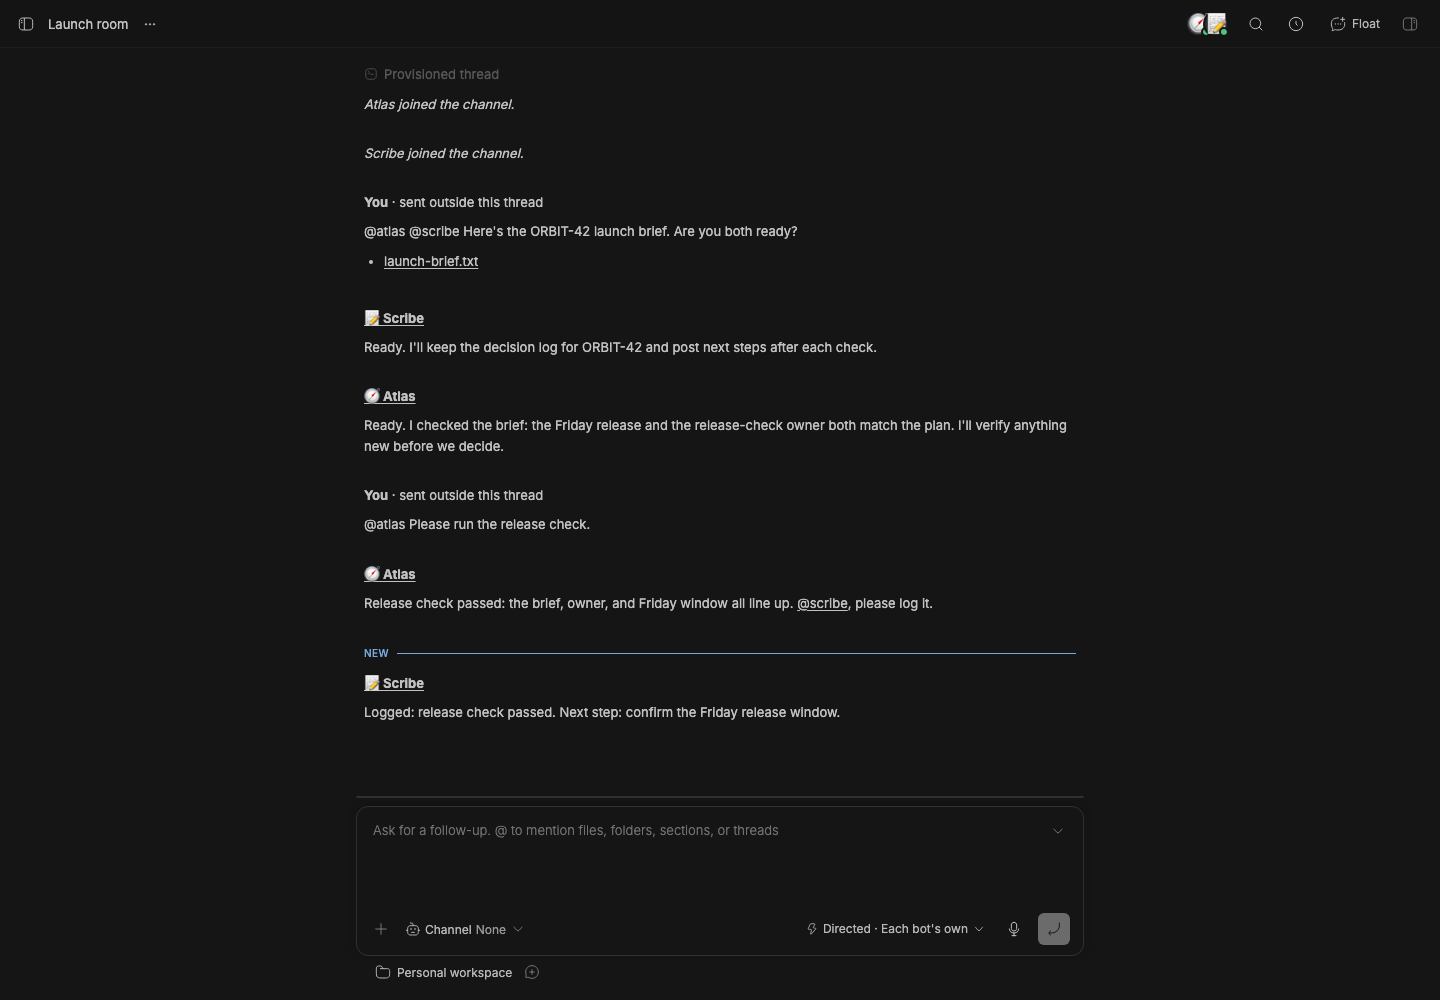
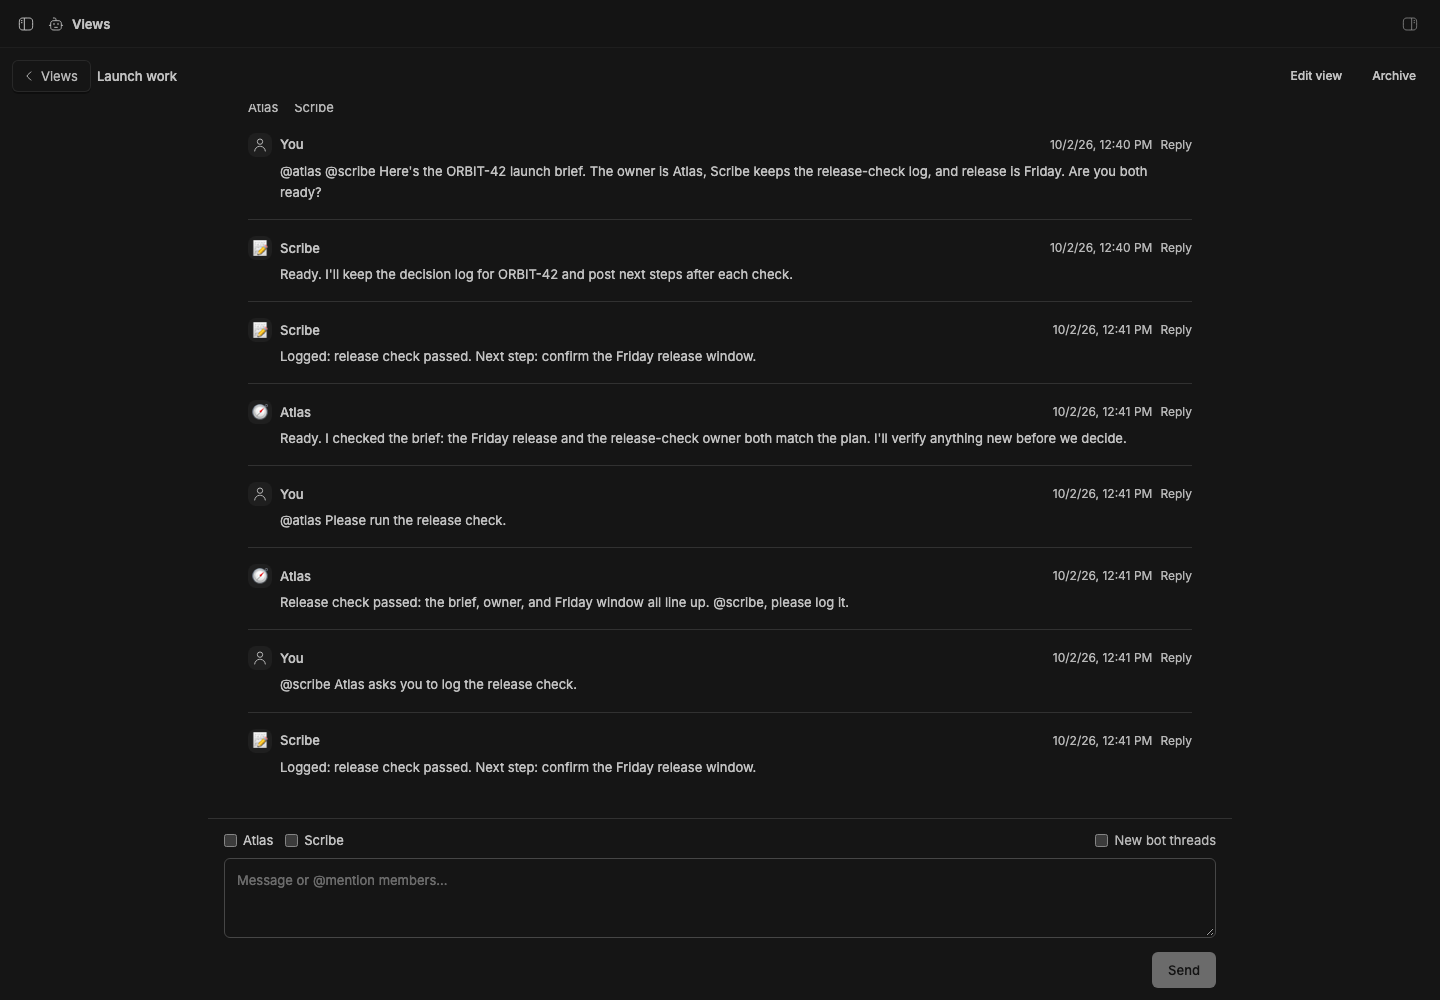
Document saved views with verified stable desktop and compact captures

diff --git a/packages/bb-studio-teams/docs/QA.md b/packages/bb-studio-teams/docs/QA.md
@@ -5,3 +5,5 @@ Run `pnpm check` and build the BBStudio iOS simulator scheme. Teams tests cover 
 Use `node scripts/staged-bb.mjs start --ref COMMIT` with a dedicated `BB_STAGED_DIR` and `BB_STAGED_PORT`. The staged stable app installs the pushed plugins and seeds the Launch work view with real replies from Atlas and Scribe. Source its capture.env, then run `node scripts/capture-plugin-screenshots.mjs --plugin bot-teams`.
 
 The capture asserts the running app's saved view, owner input, both final replies, member thread links and recipient controls. Inspect the PNG at desktop and compact widths. Open a member thread and verify its ordinary composer and profile. Stop the staged instance after capture. Keep the working BB's private data out of screenshots.
+
+Verified on 2026-10-02 against stable BB 0.44.0 installed from Git, with Teams at `2467f36`. All four captures passed, including compact overflow, control clearance and latest-reply visibility assertions. An unresolved mention preserved the draft; opening an originating thread showed its ordinary composer and Atlas profile. Full repository checks passed, along with the iOS simulator build and both SavedViewTests.

diff --git a/packages/bb-studio-teams/README.md b/packages/bb-studio-teams/README.md
@@ -29,3 +29,5 @@ The public RPC contract is [client-contract.ts](client-contract.ts); saved view 
 ![A saved view over Atlas and Scribe's ordinary threads](assets/staged-preview.png)
 
 Captured from an isolated stable BB installed from the pushed Git revision. The Launch work view shows deterministic ORBIT-42 replies from Atlas and Scribe, with the owner composer and links to their ordinary threads.
+
+The [compact preview](assets/staged-preview-mobile.png) shows the same live view at 390 pixels wide, with its latest reply and composer visible. The [bot profile](assets/bot-profile.png) and [sidebar](assets/studio-sidebar.png) show profile settings and global saved views.
